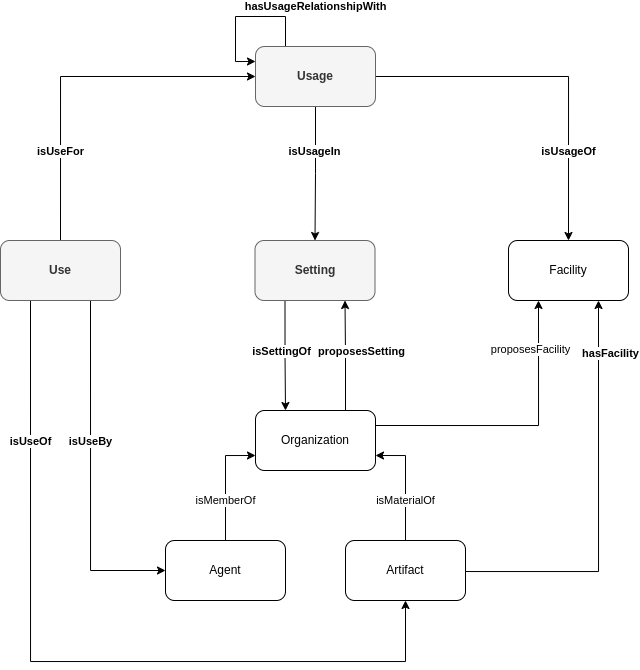
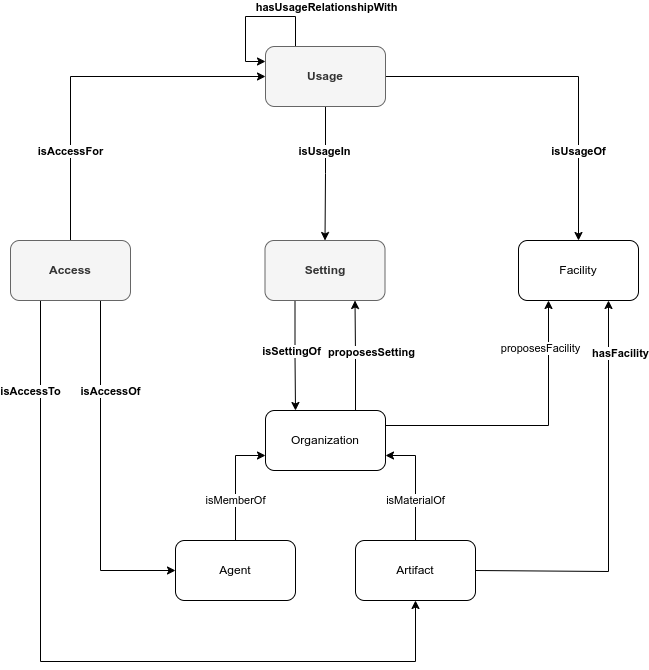
Replaced Use by Access class

diff --git a/domains/logistics/configure-organization/README.md b/domains/logistics/configure-organization/README.md
@@ -4,9 +4,9 @@
 
 The FL Logistics has a depot in Lyon and another in Saint-Étienne. Each depot has one _receiving_ and one _picking_ setting. Each _receiving_ setting has one forklift, one pallet jack, and one barcode reader. Each _picking_ setting has one forklift, one pallet jack, and one label printer. Only one employee can be associated with the usage of one setting, but the same employee can be associated with the usage of multiple settings.
 
-Forklifts are capable of raising and lowering materials on pallets to/from high shelves, as well as moving them from one location to another. Pallet jacks are capable of raising and lowering the materials on pallets placed on the floor and move them from one location to another. They both are used for loading and unloading trucks by moving materials in the _receiving_ and the _picking_ settings.
+Forklifts are capable of lifting up and lifting down materials on pallets to/from high shelves, as well as moving them from one location to another. Pallet jacks are capable of lifting up and lifting down materials on pallets placed on the floor and move them from one location to another. They both are used for loading and unloading trucks by moving materials in the _receiving_ and the _picking_ settings.
 
-The barcode reader is capable of reading barcodes identifying the materials on a pallet. The label machine is capable of printing labels with barcode to identify the materials on a pallet.
+The barcode reader is capable of reading barcodes identifying materials on a pallet. The label machine is capable of printing labels with barcode to identify the materials on a pallet.
 
 Marie can use the forklift and pallet jack to unload trucks (i.e., lift pallets and move them in the _receiving_ setting) and the barcode reader to check the pallet content.
 
@@ -28,7 +28,7 @@ Leo can use the forklift and pallet jack to unload trucks (i.e., lift pallets an
 ![image](configure-organization.png)
 
 * **Usage**: A set of Facilities that Agents can use in a Setting.
-* **Use**: An engagement of an Agent of using an Artifact in the context of an Usage.
+* **Access**: An opportunity an Agent have to use an Artifact in the context of a Usage.
 * **Usage Constraint**: A constraint imposed on Usages, e.g., limiting the number of Agents participating in that Usage or the same Agent cannot be part of two Usages simultaneously.
 * **Setting**: A Setting is the context in which a Usage is set.
 * **Facility**: see [Create an Organization](https://github.com/HyperAgents/ns.hyperagents.org/blob/master/domains/logistics/create-organization/README.md) scenario.
@@ -38,23 +38,23 @@ Leo can use the forklift and pallet jack to unload trucks (i.e., lift pallets an
 
 ## Recommendations
 
-* The Use Constraint is represented as a SHACL shape instead of an RDF triple. For example, the SHACL shape constraining that the artifacts in a use have all facilities that are also facilities of a usage.
+* The Access Constraint is represented as a SHACL shape instead of an RDF triple. For example, the SHACL shape constraining that the artifacts in an access have all facilities that are also facilities of a usage.
 
 ```
-ex:UseFacilitiesShape a sh:NodeShape ;
-    sh:targetClass hmas:Use ;
+ex:AccessFacilitiesShape a sh:NodeShape ;
+    sh:targetClass hmas:Access ;
     sh:sparql [
         a sh:SPARQLConstraint ;
         sh:message "The artifacts should have all the facilities specified in the usage." ;
         sh:prefixes ex:, hmas:, rdfs: ;
         sh:select """
-          SELECT (?use as $this)
+          SELECT (?access as $this)
           WHERE {
-            ?use hmas:isUseFor ?usage .
+            ?access hmas:isAccessFor ?usage .
             ?usage hmas:isUsageOf ?facility .
 
             FILTER NOT EXISTS {
-              ?use hmas:isUseOf ?artifact .
+              ?access hmas:isAccessTo ?artifact .
               ?artifact hmas:hasFacility ?facility .
             }
           }
